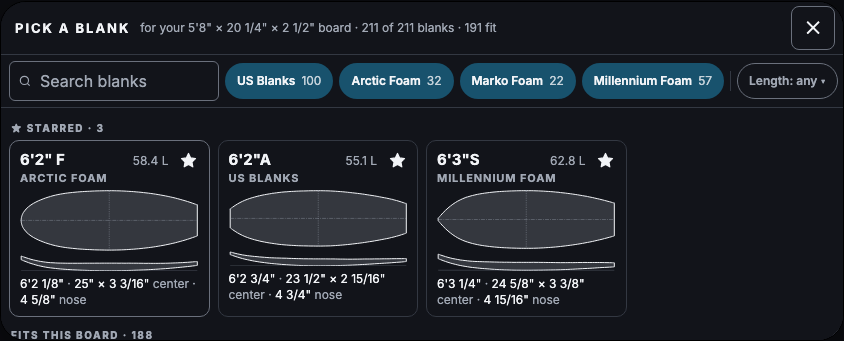
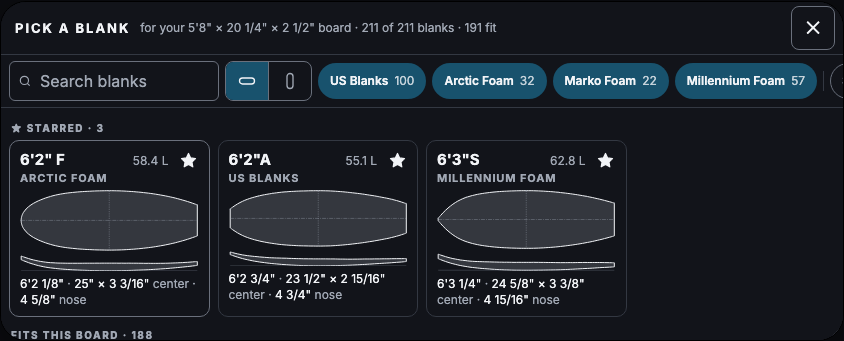
docs(sketch-015): B wins — a popup window picks the blank, flat by default, with Flat / Upright and Show my board in its filter bar
The founder chose the popup window. Blanks lie flat on every device by default and each fills its card; a Flat / Upright
switch and a Show my board on/off switch sit in the window's filter bar; theme and units follow the app's own settings.
Stars will be saved on the shaper's account when signed in and in the browser when signed out, joined on signing in.
The sketch's round two shows exactly that, republished for the founder's phone; nothing in the app has changed yet.

Changed region(s): [[0.2464, 0.176, 1.0, 0.2933]]

diff --git a/.planning/sketches/015-visual-blank-selector/index.html b/.planning/sketches/015-visual-blank-selector/index.html
@@ -184,6 +184,14 @@
   .chip.sel { padding-right: 6px; }
   .chip select { border: 0; background: transparent; color: var(--color-text); font: 600 12px var(--font-sans); cursor: pointer; }
   .chip select option { background: var(--color-surface); color: var(--color-text); }
+  .vseg { display: inline-flex; flex: none; border: 1px solid var(--color-line); border-radius: 999px; overflow: hidden; height: 30px; }
+  .vseg button { display: inline-flex; align-items: center; gap: 5px; border: 0; background: transparent; color: var(--color-text-muted); padding: 0 11px; font: 600 12px var(--font-sans); cursor: pointer; }
+  .vseg button + button { border-left: 1px solid var(--color-line); }
+  .vseg button.on { background: var(--color-primary); color: var(--color-on-primary); }
+  .vseg svg { width: 14px; height: 14px; fill: none; stroke: currentColor; stroke-width: 1.8; }
+  .device.phone .vseg, .device.side .vseg { height: 40px; border-radius: 8px; }
+  .device.phone .vseg button, .device.side .vseg button { font-size: 0; gap: 0; padding: 0 12px; }
+  .device.phone .vseg svg, .device.side .vseg svg { width: 18px; height: 18px; }
   .fsep { width: 1px; height: 20px; background: var(--color-border); flex: none; }
   .drawer { display: flex; gap: 14px; align-items: center; flex-wrap: wrap; padding: 8px 10px; border: 1px solid var(--color-border); border-radius: 8px; background: var(--color-well); font-size: 12px; }
   .drawer .rng { flex: 1 1 220px; display: flex; flex-direction: column; gap: 2px; }
@@ -299,7 +307,7 @@ const COMMON_VARS = { "--font-sans": '"Inter", Roboto, system-ui, sans-serif', "
 
 const VARIANTS = [
   { id: "a", label: "A: A BLANKS tab beside VIEWER", short: "A · Tab" },
-  { id: "b", label: "B: A popup window", short: "B · Popup" },
+  { id: "b", label: "B: A popup window ★ the founder's pick", short: "B ★ Popup", winner: true },
   { id: "c", label: "C: Today's list, with drawings", short: "C · List" },
   { id: "all", label: "All three side by side" },
 ];
@@ -308,12 +316,14 @@ const DRAWN = [["flat", "Lying flat"], ["phoneUp", "Upright on a phone only"], [
 const SCALES = [["fill", "Each blank fills its card"], ["one", "One scale for all"]];
 const DEFAULT_STARS = ["US Blanks|6'2\"A", "Arctic Foam|6'2\" F", "Millennium Foam|6'3\"S"].filter((id) => BY[id]);
 const DEFAULTS = {
-  variant: "b", device: "computer", drawn: "phoneUp", board: "fish", units: "imperial", theme: "slate", scale: "fill", ghost: false,
+  variant: "b", device: "computer", drawn: "flat", board: "fish", units: "imperial", theme: "slate", scale: "fill", ghost: false,
   stars: DEFAULT_STARS,
   ui: { a: { tab: "blanks" }, b: { tab: "viewer", open: true }, c: { tab: "viewer", expanded: false, listOpen: true } },
   f: { q: "", hidden: [], len: null, nose: null, starOnly: false, sort: "length", open: null },
 };
 let state = JSON.parse(JSON.stringify(DEFAULTS));
+if (state.drawn !== "upright") state.drawn = "flat"; // round one's "upright on a phone only" is gone
+state.scale = "fill"; // the founder's pick: each blank fills its card
 let scrollToBlank = true;
 let barOpen = false;
 try { const saved = JSON.parse(localStorage.getItem("sketch015") || "{}"); state = { ...state, ...saved, ui: { ...state.ui, ...(saved.ui || {}) }, f: { ...state.f, ...(saved.f || {}), open: null } }; } catch (e) {}
@@ -521,7 +531,7 @@ function topbar(device) {
     return `<div class="topbar"><span class="wordmark"><b>shaper</b>assistant<small>.com</small></span><nav class="topnav"><span>Template</span><span class="on">Rocker</span><span>Rails</span><span>Volume</span><span>Fins</span><span>Summary</span><i class="sep"></i><span>⌂</span><span>⚙</span><i class="sep"></i></nav><button class="save">Save</button><span style="font-size:14px;color:var(--color-text-muted)">Sign in</span></div>`;
   return `<div class="topbar"><span class="wordmark"><b>shaper</b>assistant<small>.com</small></span><button class="save">Save</button><span class="ham">☰</span></div>`;
 }
-function uprightHere(device) { return state.drawn === "upright" || (state.drawn === "phoneUp" && device === "phone"); }
+function uprightHere(device) { return state.drawn === "upright"; }
 
 function blankButton(v, device) {
   const pid = pickOf(v), b = pid ? BY[pid] : null;
@@ -606,10 +616,13 @@ function filterBar(v, device, rowsAll) {
       <button class="link" data-act="rngreset" data-k="${k}">Any ${k === "len" ? "length" : "nose rocker"}</button>
     </div>`;
   }
+  const view = `<span class="vseg" role="group" aria-label="How blanks are drawn"><button class="${state.drawn === "flat" ? "on" : ""}" data-set="drawn" data-val="flat" aria-pressed="${state.drawn === "flat"}"><svg viewBox="0 0 24 24"><rect x="2" y="8" width="20" height="8" rx="4"/></svg>Flat</button><button class="${state.drawn === "upright" ? "on" : ""}" data-set="drawn" data-val="upright" aria-pressed="${state.drawn === "upright"}"><svg viewBox="0 0 24 24"><rect x="8" y="2" width="8" height="20" rx="4"/></svg>Upright</button></span>`;
+  const mine = `<button class="chip${state.ghost ? " on" : ""}" data-set="ghost" data-val="${!state.ghost}" aria-pressed="${state.ghost}">Show my board: ${state.ghost ? "On" : "Off"}</button>`;
+  const roomy = device === "computer";
   const sortSel = `<label class="chip sel set">Sort <select data-act="sort">${Object.entries(SORTS).map(([id, [l]]) => `<option value="${id}"${f.sort === id ? " selected" : ""}>${l}</option>`).join("")}</select></label>`;
   return `<div class="fbar">
-    <div class="fline"><label class="search">${SEARCH_ICON}<input type="search" data-act="q" placeholder="Search — e.g. Marko, 6'2, EPS" value="${esc(f.q)}" aria-label="Search blanks"></label><span class="count" data-count="${v}"></span></div>
-    <div class="fline chips">${device === "side" ? `<label class="search">${SEARCH_ICON}<input type="search" data-act="q" placeholder="Search blanks" value="${esc(f.q)}" aria-label="Search blanks"></label>` : ""}${chips}<i class="fsep"></i>
+    <div class="fline"><label class="search">${SEARCH_ICON}<input type="search" data-act="q" placeholder="Search — e.g. Marko, 6'2, EPS" value="${esc(f.q)}" aria-label="Search blanks"></label>${roomy ? view + mine : view}<span class="count" data-count="${v}"></span></div>
+    <div class="fline chips">${device === "side" ? `<label class="search">${SEARCH_ICON}<input type="search" data-act="q" placeholder="Search blanks" value="${esc(f.q)}" aria-label="Search blanks"></label>${view}` : ""}${chips}<i class="fsep"></i>${roomy ? "" : mine}
       <button class="chip${lenSet ? " set" : ""}${f.open === "len" ? " open" : ""}" data-act="fopen" data-k="len">Length: ${lenTxt} ▾</button>
       <button class="chip${noseSet ? " set" : ""}${f.open === "nose" ? " open" : ""}" data-act="fopen" data-k="nose">Nose rocker: ${noseTxt} ▾</button>
       <button class="chip${f.starOnly ? " on" : ""}" data-act="staronly">★ Starred only</button>
@@ -713,14 +726,12 @@ function renderChrome() {
   const ph = onPhone();
   nav.innerHTML = ph
     ? `${VARIANTS.filter((v) => v.id !== "all").map((v) => `<button class="variant-tab${state.variant === v.id ? " active" : ""}" data-set="variant" data-val="${v.id}">${v.short}</button>`).join("")}<button class="variant-tab notes-btn" id="bar-btn">Options</button><button class="variant-tab" id="notes-btn">Notes</button><div id="notes-panel">${NOTES}</div>`
-    : `<span class="sketch-id">015 · Picking a blank by sight</span>${VARIANTS.map((v) => `<button class="variant-tab${state.variant === v.id ? " active" : ""}" data-set="variant" data-val="${v.id}">${v.label}</button>`).join("")}<button class="variant-tab notes-btn" id="notes-btn">Notes</button><div id="notes-panel">${NOTES}</div>`;
+    : `<span class="sketch-id">015 · Picking a blank by sight</span>${VARIANTS.map((v) => `<button class="variant-tab${state.variant === v.id ? " active" : ""}${v.winner ? " winner" : ""}" data-set="variant" data-val="${v.id}">${v.label}</button>`).join("")}<button class="variant-tab notes-btn" id="notes-btn">Notes</button><div id="notes-panel">${NOTES}</div>`;
   document.getElementById("sketch-bar").classList.toggle("closed", ph && !barOpen);
   document.getElementById("sketch-bar").innerHTML = `
     ${onPhone() ? `<span class="grp">Turn the phone to try it sideways</span>` : `<span class="grp">Device ${seg("d", "device", DEVICES)}</span>`}
-    <span class="grp">Blanks drawn ${seg("dr", "drawn", DRAWN)}</span>
-    <span class="grp">Scale ${seg("sc", "scale", SCALES)}</span>
     <span class="grp">Your board ${seg("bd", "board", DATA.boards.map((b) => [b.id, b.id === "default" ? "Untitled 6'0\"" : b.name]))}</span>
-    <span class="grp">Show my board on each blank ${seg("gh", "ghost", [[false, "Off"], [true, "On"]])}</span>
+
     ${onPhone() ? `<span class="grp">Theme ${seg("th2", "theme", [["slate", "Slate"], ["daylight", "Daylight"], ...(window.__publish ? [["auto", "Follow phone"]] : [])])}</span><span class="grp">Units ${seg("un2", "units", [["imperial", "Imperial"], ["metric", "Metric"]])}</span><span class="grp">Stars <span class="seg"><button data-act="clearstars">Clear stars</button><button data-act="resetstars">Star three</button></span></span>` : ""}`;
   document.getElementById("t-theme").innerHTML = seg("th", "theme", [["slate", "Slate"], ["daylight", "Daylight"], ...(window.__publish ? [["auto", "Follow phone"]] : [])]);
   document.getElementById("t-units").innerHTML = seg("un", "units", [["imperial", "Imperial"], ["metric", "Metric"]]);
@@ -852,11 +863,14 @@ let rt = 0; window.addEventListener("resize", () => { clearTimeout(rt); rt = set
 
 const INTRO = {
   a: `<b>A — a BLANKS tab beside VIEWER and DATASHEET</b>, like TEMPLATE's WINGS tab. The sidebar's BLANK section becomes one button showing the blank on your board (its name and a thumbnail); it opens the tab. The tab is a catalogue page: every blank long enough for your board, starred ones first, drawn to scale with the maker's printed dims. Picking one puts it on your board and takes you back to VIEWER. Star a blank with the ☆ in its corner.`,
-  b: `<b>B — a popup window</b> opened from the same blank button in the sidebar. The window is the same catalogue page, as big as the screen allows — on a phone it fills the screen. Picking a blank closes the window and loads it; ✕, Esc or a click outside closes it without changing anything. Star a blank with the ☆ in its corner.`,
+  b: `<b>B — a popup window ★ the founder's pick (2026-10-15)</b>, opened from the blank button in the sidebar. Blanks lie flat by default on every device, each filling its card; the filter bar's Flat / Upright and Show my board switches change the view. Theme and units follow the app's own settings.`,
+  b0: `<b>B — a popup window</b> opened from the same blank button in the sidebar. The window is the same catalogue page, as big as the screen allows — on a phone it fills the screen. Picking a blank closes the window and loads it; ✕, Esc or a click outside closes it without changing anything. Star a blank with the ☆ in its corner.`,
   c: `<b>C — today's list, with drawings</b> (the founder's third option). The sidebar list stays as it is today — search, Fits / Won't fit, Show all — and each row gains a tiny drawing of the blank's outline and rocker and its nose and tail rocker. Starred blanks come first.`,
   all: `<b>All three side by side</b>, at the device picked in the bar above, each shrunk to fit. They still work: open B's window, switch A to its BLANKS tab, star a blank in one and see it starred in the others.`,
 };
-const NOTES = `<h2>What this sketch asks</h2>
+const NOTES = `<h2>Decided (the founder, 2026-10-15)</h2>
+<p><b>B, the popup.</b> Blanks lie flat by default on every device, each filling its card; a <b>Flat / Upright</b> switch and a <b>Show my board</b> on/off switch sit in the filter bar. Theme and units follow the app's own settings. <b>Stars</b> are saved on the shaper's account when signed in, in the browser when signed out, and the two join on signing in.</p>
+<h2>What this sketch asked</h2>
 <p>Where should a <b>visual blank picker</b> live on ROCKER — <b>A</b> a BLANKS tab beside VIEWER (like WINGS), <b>B</b> a popup window opened from the blank, or <b>C</b> today's list with a tiny drawing on every row? And on a phone, should the blanks lie flat or stand upright?</p>
 <h3>Every blank is real</h3>
 <p>All 219 pickable blanks from the four makers' catalogues, drawn with the app's own curves (the same ones ROCKER draws with, round noses included), at true proportion — nothing stretched. Which blanks are listed, and why a greyed one won't fit, come from the app's own fit check for the board picked in the bar (the Fish shows all three kinds: fits, too wide somewhere, too thin at the center).</p>
@@ -865,17 +879,16 @@ const NOTES = `<h2>What this sketch asks</h2>
 <li><b>Stars.</b> ☆ on any blank stars it; starred blanks always come first, in their own group, whatever the sort. "★ Starred only" narrows to them.</li>
 <li><b>Too-thin blanks are listed, greyed, with why</b> (your earlier spec). Today they're hidden. Only blanks too short for the board are left out.</li>
 <li><b>Filters</b> (A and B): the four makers (the same tick boxes as Settings → Blank Makers — at least one stays ticked), a length range, a nose-rocker range, and a sort: length (the default), nose rocker, center thickness or volume.</li>
-<li><b>Show my board on each blank</b> (the bar): your board's outline drawn dashed on every blank, where the app would place it.</li>
+<li><b>Show my board</b> (the filter bar): your board's outline drawn dashed on every blank, where the app would place it.</li>
 </ul>
 <h3>Things to try</h3>
 <ul>
 <li>Switch Device between Computer, Phone upright and Phone sideways on each of A, B and C.</li>
-<li>"Blanks drawn": lying flat (a catalogue page), upright on a phone only, or upright everywhere (your earlier spec's small upright drawing beside the numbers).</li>
-<li>"Scale": each blank filling its card shows its shape best; one scale for all lets you compare lengths and rockers card to card, like the Board Rack.</li>
+<li>Flat / Upright (the filter bar): lying flat is a catalogue page; upright is your earlier spec's small upright drawing beside the numbers.</li>
 <li>Pick the Longboard: far fewer blanks are long enough, and more are greyed.</li>
 </ul>
 <h3>On your phone</h3>
-<p>The mock-up fills the screen and follows how you hold the phone: upright shows the upright phone, turned sideways shows the sideways one. Options holds every switch: how blanks are drawn, the scale, the board, the theme, units and stars.</p>
+<p>The mock-up fills the screen and follows how you hold the phone: upright shows the upright phone, turned sideways shows the sideways one. Options holds the board, theme, units and stars; Flat / Upright and Show my board are in the popup's filter bar.</p>
 <h3>Not part of the question</h3>
 <p>The VIEWER and DATASHEET are stand-ins. The VIEWER draws your board on the picked blank roughly, just so a pick visibly lands.</p>`;
 

diff --git a/.planning/sketches/MANIFEST.md b/.planning/sketches/MANIFEST.md
@@ -109,7 +109,7 @@ phone). The sketch draws all three placements on all 219 real blanks with the ap
 | 012 | blank-round-nose | When a blank prints its nose tip 0 wide, how should its outline reach the tip on ROCKER's top view? | **C — Parabola from the tip** (nothing to set) | viewer, rocker, top-view, blank, geometry |
 | 013 | wings-on-the-outline | How does a wing read on the TEMPLATE outline, and what happens to the tail behind it? | **A — Tail re-drawn to your block** (depth fades to nothing at the tail pod; two wings stack) | viewer, template, outline, wings, fins, geometry, controls |
 | 014 | wings-tab | With wings on a WINGS tab of the TEMPLATE page, where do the wing controls live, and how does the view scale for a stinger? | **B — The window grows with the wing** (sidebar swaps to the wing controls; grab points with Show construction) | template, wings, tabs, controls, sidebar, phone, interaction |
-| 015 | visual-blank-selector | Where does a picker that shows each blank live on ROCKER — a BLANKS tab, a popup window, or today's list with drawings — and do blanks lie flat or stand upright on a phone? | — (with the founder) | rocker, blank, picker, catalogue, favourites, tabs, popup, phone |
+| 015 | visual-blank-selector | Where does a picker that shows each blank live on ROCKER — a BLANKS tab, a popup window, or today's list with drawings — and do blanks lie flat or stand upright on a phone? | **B — A popup window** (flat by default, Flat / Upright and Show my board in the filter bar, each blank fills its card) | rocker, blank, picker, catalogue, favourites, tabs, popup, phone |
 
 ## Decisions These Lock In
 
@@ -199,13 +199,22 @@ phone). The sketch draws all three placements on all 219 real blanks with the ap
    rail break point; the popup opens every time a board goes from no wings to one; the radius slider stops at the
    largest round that fits; the return from FINS lands on VIEWER. Built in quick 261014-wii.
 
+18. **A blank is picked by sight, in a popup window** (sketch 015 B; the founder, 2026-10-15: "B Popup, stars follow your
+   recommendation, default laying flat on all devices but give a vertical/horizontal toggle in the filter. Scaling so
+   each blank fills its card. Show my board on each blank should be an off/on toggle in the filter. Theme and units
+   follow the apps setting."). The sidebar's BLANK section becomes one button — the blank's name, maker, dims and a
+   thumbnail — that opens a window holding a catalogue page of every blank long enough for the board: each blank lying
+   flat (outline over rocker, true proportion, filling its card) with the maker's printed station table; ★ Starred
+   first, then Fits this board, then Won't fit this board greyed with the reason (too wide somewhere, or too thin at
+   the center — no longer hidden); a search, the four makers (the Settings → Blank Makers setting itself), a length
+   range, a nose-rocker range, ★ Starred only, a sort (length by default), and the Flat / Upright and Show my board
+   switches. Picking a blank closes the window and loads it; on a phone the window fills the screen. Theme and units
+   follow the app's settings. Stars live on the shaper's account when signed in (a nullable `user_preferences` column,
+   migrated on production before the deploy), in the browser when signed out, joined on signing in.
+
 ## Open Questions
 
-- Blank picker (015): which placement — A tab, B popup, C list with drawings? Flat or upright on a phone? And **where
-  stars are saved**: recommended, signed in, a new nullable column on `user_preferences` (a list of blanks, by maker and
-  name — the Blank Makers setting's pattern), migrated on production before the deploy that reads it; signed out, the
-  browser alone, like Imperial/Metric; on signing in, the browser's stars join the account's. Nothing is built or
-  migrated until the founder answers.
+- Blank picker (015): ~~which placement, flat or upright, where stars are saved?~~ Answered 2026-10-15 — decision 18.
 
 - Phone chrome (007/008): ~~does a phone held sideways keep its screens list in ☰ or switch to the tiles
   too?~~ Answered: tiles too (the founder, 2026-10-03, "use on all screens that condense the top bar into a

diff --git a/.planning/sketches/015-visual-blank-selector/README.md b/.planning/sketches/015-visual-blank-selector/README.md
@@ -2,7 +2,7 @@
 sketch: 015
 name: visual-blank-selector
 question: "Where should a picker that shows each blank — outline from above, rocker from the side, printed dims — live on ROCKER: a BLANKS tab, a popup window, or today's list with a drawing on every row? And should the blanks lie flat or stand upright on a phone?"
-winner: null
+winner: "B"
 tags: [rocker, blank, picker, catalogue, favourites, tabs, popup, phone, filters]
 ---
 
@@ -27,6 +27,27 @@ sorted by length, with filters for vendor, length range and nose rocker range; p
 blank; on a phone a full-screen sheet, one column. (The other chat's "add this to the rocker prompt under PAGE ORDER"
 refers to nothing in this project — no such prompt exists here.)
 
+## Decided (the founder, 2026-10-15)
+
+*"B Popup, stars follow your recommendation, default laying flat on all devices but give a vertical/horizontal toggle in
+the filter. Scaling so each blank fills its card. Show my board on each blank should be an off/on toggle in the filter.
+Theme and units follow the apps setting."*
+
+- **B, the popup window** ★, opened from the blank button (name, maker, dims and a thumbnail) in the sidebar's BLANK
+  section; on a phone it fills the screen.
+- **Blanks lie flat by default on every device.** A **Flat / Upright** switch sits in the filter bar (on a computer
+  beside the search with its words; on a phone two icons beside the search).
+- **Each blank fills its card** (true proportion, never stretched). The one-scale option is dropped.
+- **Show my board** is an on/off switch in the filter bar (beside Flat / Upright on a computer, in the chip row on a
+  phone), off by default: your board's outline dashed on every blank where the app would place it.
+- **Theme and units follow the app's own settings** — the popup has no switches of its own for them.
+- **Stars**: saved on the shaper's account when signed in (a new nullable column on `user_preferences`, a list of
+  blanks by maker and name, migrated on production before the deploy that reads it); in the browser alone when signed
+  out, like Imperial/Metric; on signing in, the browser's stars join the account's. Starring never changes a board.
+
+Round two of the sketch shows exactly this; round one's switches (upright on a phone only, one scale for all) are gone
+from the page, and round one's page is kept in `sketch-source.tar.gz` as `template-round1.html`.
+
 ## How to View
 open .planning/sketches/015-visual-blank-selector/index.html
 
@@ -37,7 +58,7 @@ phone the mock-up fills the screen and follows how the phone is held (upright or
 - **A: A BLANKS tab beside VIEWER** — like TEMPLATE's WINGS tab. The sidebar's BLANK section becomes one button (the
   blank's name, maker, dims and a thumbnail) that opens the tab; the tab is the catalogue page. Picking a blank puts it
   on the board and returns to VIEWER.
-- **B: A popup window** — the same button opens a window holding the same catalogue page, as large as the screen allows;
+- **B: A popup window ★ (the founder's pick)** — the same button opens a window holding the same catalogue page, as large as the screen allows;
   on a phone it fills the screen. Picking closes it and loads the blank; ✕, Esc or a click outside closes it unchanged.
 - **C: Today's list, with drawings** — the sidebar list as it is today (intro, search, Fits / Won't fit, Show all), each
   row with a small thumbnail of the outline over the rocker and its nose and tail rocker. Starred blanks first.
